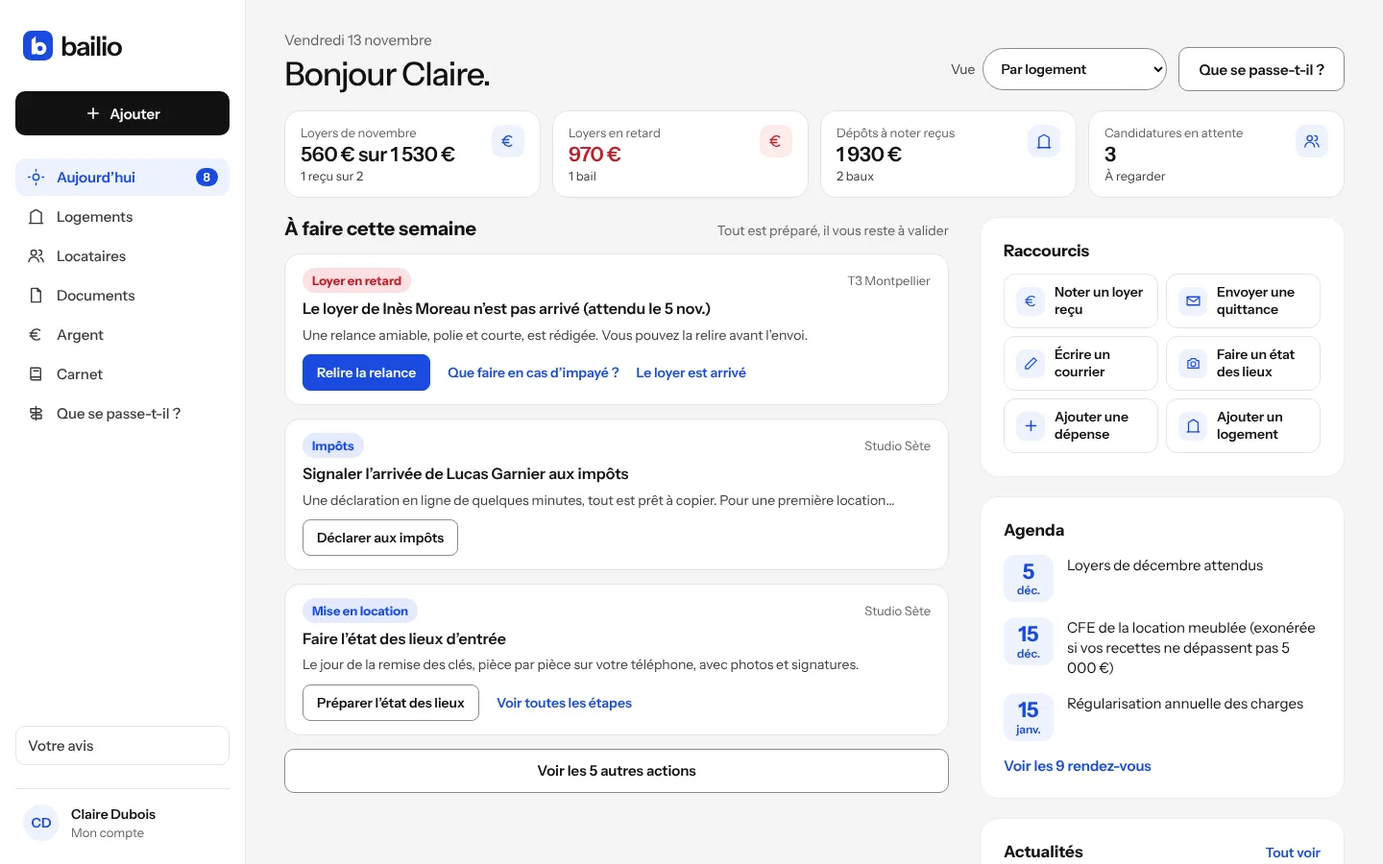
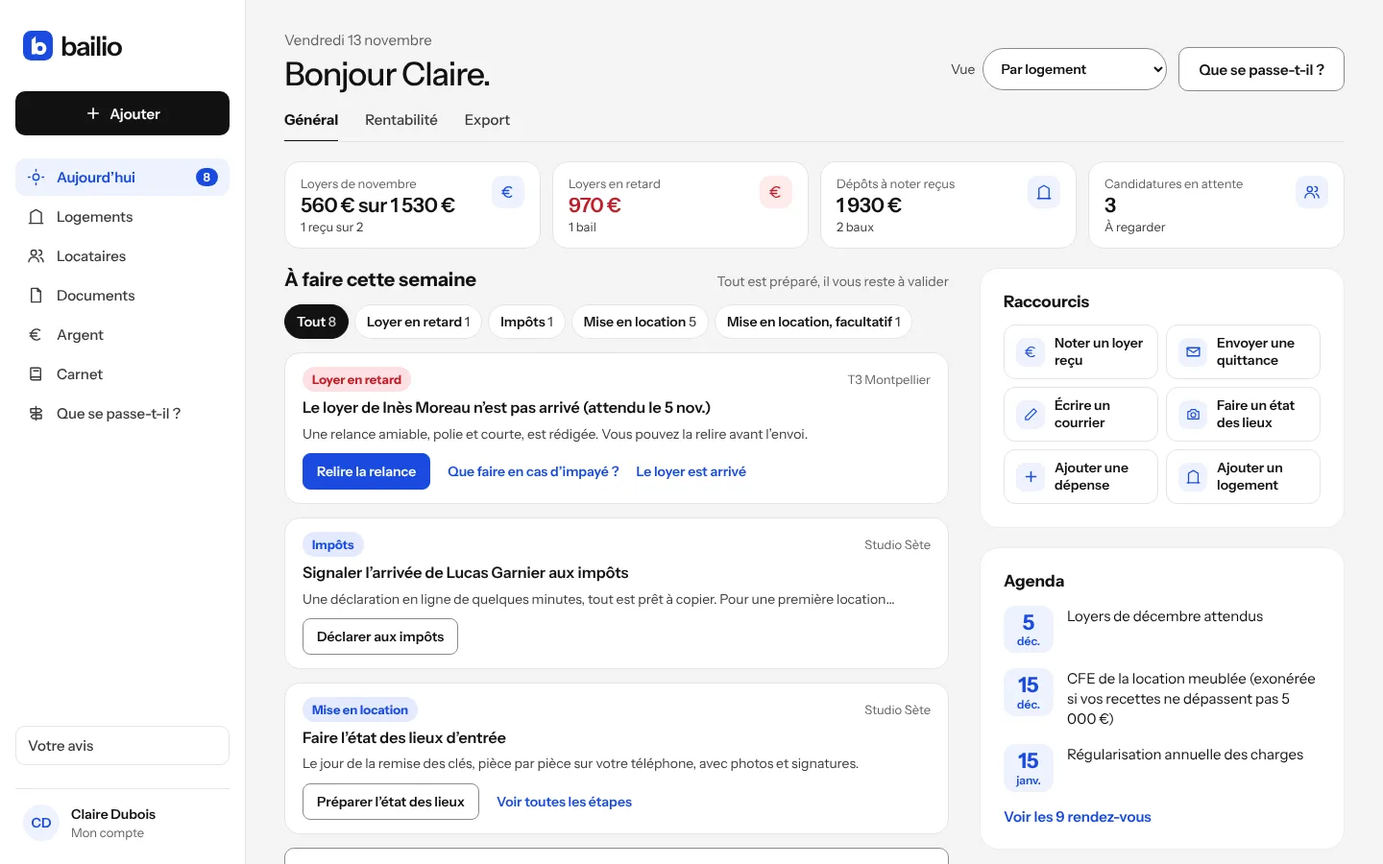
Tableau de bord : onglets Général, Rentabilité et Export ; actions filtrables par catégorie ; captures refaites
Claude-Session: https://claude.ai/code/session_01EKVDPdaB2g9b96r4iNnge6

diff --git a/client/src/pages/espace/Aujourdhui.tsx b/client/src/pages/espace/Aujourdhui.tsx
@@ -1,12 +1,12 @@
-import { useEffect, useState } from 'react'
-import { Link, useNavigate } from 'react-router-dom'
+import { useEffect, useState, type ReactNode } from 'react'
+import { Link, useNavigate, useSearchParams } from 'react-router-dom'
 import { BAI } from '../../constants/bailio-tokens'
 import { AppShell, useSpace } from '../../components/AppShell'
 import { display } from '../../components/ui'
-import { Btn, Card, LoadError, Loader, Pill, TextLink, toneColor, useLoad, useToast, useConfirm } from '../../components/kit'
+import { Btn, Card, LoadError, Loader, Pill, Tabs, TextLink, toneColor, useLoad, useToast, useConfirm } from '../../components/kit'
 import { Camera, Check, Euro, Home, Mail, Pencil, People, Plus, Upload } from '../../components/Icons'
 import { Onboarding } from '../../components/Onboarding'
-import { api } from '../../lib/api'
+import { api, downloadPdf, pdfUrl } from '../../lib/api'
 import { dayTitle, eurosCents, monthName, plural } from '../../lib/format'
 import type { Task, TodayView } from '../../lib/space'
 import { useAuth } from '../../lib/auth'
@@ -31,6 +31,10 @@ function TodayContent() {
   const { data, error, loading, reload } = useLoad(() => api<TodayView>('/today'))
   // Trois actions à la fois : les plus urgentes d'abord, le reste sur demande (pas de longue liste à faire défiler).
   const [allTasks, setAllTasks] = useState(false)
+  const [tag, setTag] = useState<string | null>(null)
+  const [params, setParams] = useSearchParams()
+  const tab = (['general', 'rentabilite', 'export'] as const).find((t) => t === params.get('onglet')) ?? 'general'
+  const setTab = (t: string) => setParams(t === 'general' ? {} : { onglet: t }, { replace: true })
   useEffect(() => {
     if (data) setTaskCount(data.tasks.length)
   }, [data, setTaskCount])
@@ -46,7 +50,9 @@ function TodayContent() {
   const view: ViewMode = user?.viewMode ?? suggestView(data.counts.properties)
   const simple = view === 'SIMPLE'
   const large = view === 'LARGE' || view === 'AGENCY'
-  const visibleTasks = allTasks ? data.tasks : data.tasks.slice(0, 3)
+  const tags = [...new Set(data.tasks.map((t) => t.tag))]
+  const filtered = tag ? data.tasks.filter((t) => t.tag === tag) : data.tasks
+  const visibleTasks = allTasks ? filtered : filtered.slice(0, 3)
   return (
     <>
       <FollowUpBanner />
@@ -71,6 +77,9 @@ function TodayContent() {
 
       {large ? <PortfolioBar agency={view === 'AGENCY'} /> : null}
 
+      <Tabs label="Tableau de bord" value={tab} onChange={setTab} tabs={[{ value: 'general', label: 'Général' }, { value: 'rentabilite', label: 'Rentabilité' }, { value: 'export', label: 'Export' }]} />
+
+      {tab === 'rentabilite' ? <Profitability /> : tab === 'export' ? <Exports /> : (<>
       <Tiles data={data} />
 
       <div className="today-grid">
@@ -79,6 +88,19 @@ function TodayContent() {
             <h2 style={{ margin: 0, fontSize: 20, fontWeight: 700 }}>À faire cette semaine</h2>
             {data.tasks.length ? <span style={{ fontSize: 14, color: BAI.inkSoft }}>Tout est préparé, il vous reste à valider</span> : null}
           </div>
+          {tags.length > 1 ? (
+            <div role="group" aria-label="Filtrer les actions" style={{ display: 'flex', gap: 6, flexWrap: 'wrap' }}>
+              {[null, ...tags].map((g) => {
+                const n = g ? data.tasks.filter((t) => t.tag === g).length : data.tasks.length
+                const on = tag === g
+                return (
+                  <button key={g ?? 'tout'} type="button" aria-pressed={on} onClick={() => { setTag(g); setAllTasks(false) }} style={{ minHeight: 36, padding: '0 12px', borderRadius: 999, border: `1px solid ${on ? BAI.ink : BAI.border}`, background: on ? BAI.ink : BAI.surface, color: on ? BAI.surface : BAI.ink, fontFamily: 'inherit', fontSize: 14, fontWeight: 600, cursor: 'pointer' }}>
+                    {g ?? 'Tout'} <span style={{ fontWeight: 500, opacity: 0.8 }}>{n}</span>
+                  </button>
+                )
+              })}
+            </div>
+          ) : null}
           {/* Plusieurs envois du même genre (relances, assurances, révisions) : ils se font en une fois. */}
           {(['LATE_RENT', 'INSURANCE', 'REVISION'] as const).some((k) => data.tasks.filter((t) => t.type === k).length >= 2) ? (
             <Link to="/espace/actions" style={{ fontSize: 15, fontWeight: 600, color: BAI.owner }}>
@@ -93,9 +115,9 @@ function TodayContent() {
                   <TaskCard task={t} onChange={reload} first={i === 0} />
                 </div>
               ))}
-              {data.tasks.length > visibleTasks.length || allTasks ? (
+              {filtered.length > visibleTasks.length || allTasks ? (
                 <Btn variant="outline" onClick={() => setAllTasks(!allTasks)}>
-                  {allTasks ? 'Voir moins' : (() => { const rest = data.tasks.length - visibleTasks.length; return `Voir ${rest > 1 ? `les ${rest} autres actions` : 'l’autre action'}` })()}
+                  {allTasks ? 'Voir moins' : (() => { const rest = filtered.length - visibleTasks.length; return `Voir ${rest > 1 ? `les ${rest} autres actions` : 'l’autre action'}` })()}
                 </Btn>
               ) : null}
             </>
@@ -125,11 +147,83 @@ function TodayContent() {
           </Card>
         </aside>
       </div>
+      </>)}
     </>
   )
 }
 
 const fmtMoney = (c: number) => eurosCents(c).replace(',00 €', ' €')
+
+/** Onglet « Rentabilité » : l'essentiel du mois et chaque logement en une ligne (même calcul que /espace/patrimoine). */
+interface PortfolioLite {
+  totals: { properties: number; rented: number; monthlyRentCents: number; monthlyLoanCents: number; monthlyExpensesCents: number; monthlyNetCents: number; grossYield: number | null }
+  rows: Array<{ id: string; name: string; rented: boolean; rentCents: number; chargesCents: number; netCents: number }>
+}
+
+function Profitability() {
+  const { data, error, reload } = useLoad(() => api<PortfolioLite>('/portfolio'))
+  if (error) return <LoadError message={error} retry={reload} />
+  if (!data) return <Loader />
+  const t = data.totals
+  const tiles: Array<[string, string, string?]> = [
+    ['Loyers et charges attendus', fmtMoney(t.monthlyRentCents), 'par mois'],
+    ['Crédits et dépenses', fmtMoney(t.monthlyLoanCents + t.monthlyExpensesCents), 'par mois, en moyenne'],
+    [t.monthlyNetCents >= 0 ? 'Il vous reste' : 'De votre poche', fmtMoney(Math.abs(t.monthlyNetCents)), 'par mois, avant impôt'],
+    ['Rendement brut', t.grossYield !== null ? `${t.grossYield.toLocaleString('fr-FR')} %` : '—', t.grossYield !== null ? 'par an, logements loués' : 'prix d’achat à renseigner'],
+  ]
+  return (
+    <>
+      <div className="today-tiles">
+        {tiles.map(([label, value, sub]) => (
+          <div key={label} style={{ background: BAI.surface, border: `1px solid ${BAI.border}`, borderRadius: 16, padding: '14px 16px', display: 'flex', flexDirection: 'column', gap: 2 }}>
+            <span style={{ fontSize: 13, color: BAI.inkSoft }}>{label}</span>
+            <span style={{ fontSize: 'clamp(18px, 2vw, 21px)', fontWeight: 600, letterSpacing: '-0.02em' }}>{value}</span>
+            {sub ? <span style={{ fontSize: 13, color: BAI.inkMid }}>{sub}</span> : null}
+          </div>
+        ))}
+      </div>
+      <Card title="Par logement" action={<TextLink to="/espace/patrimoine" style={{ fontSize: 14 }}>Tableau de bord complet</TextLink>}>
+        {data.rows.map((r) => (
+          <Link key={r.id} to={`/espace/logements/${r.id}`} className="tap" style={{ textDecoration: 'none', color: BAI.ink, display: 'flex', justifyContent: 'space-between', gap: 12, fontSize: 15, borderTop: `1px solid ${BAI.dividerSoft}`, paddingTop: 10 }}>
+            <span style={{ minWidth: 0, overflow: 'hidden', textOverflow: 'ellipsis' }}>{r.name}</span>
+            <span style={{ whiteSpace: 'nowrap', fontWeight: 600, color: !r.rented ? BAI.inkSoft : r.netCents >= 0 ? BAI.ink : BAI.error }}>{r.rented ? `${fmtMoney(r.netCents)} / mois` : 'Libre'}</span>
+          </Link>
+        ))}
+      </Card>
+    </>
+  )
+}
+
+/** Onglet « Export » : ce qu'on télécharge ou prépare pour le comptable et les impôts. */
+function Exports() {
+  const toast = useToast()
+  const year = new Date().getFullYear()
+  const csv = async (y: number) => {
+    try {
+      downloadPdf(await pdfUrl(`/money/export?year=${y}`), `bailio-${y}.csv`)
+    } catch (e) {
+      toast.error(e)
+    }
+  }
+  const items: Array<{ title: string; text: string; action: ReactNode }> = [
+    { title: `Export pour le comptable ${year}`, text: 'Loyers, charges et dépenses, une ligne par opération (CSV).', action: <Btn size="sm" variant="outline" onClick={() => void csv(year)}>Télécharger</Btn> },
+    { title: `Export ${year - 1}`, text: 'L’année dernière, au même format.', action: <Btn size="sm" variant="outline" onClick={() => void csv(year - 1)}>Télécharger</Btn> },
+    { title: 'Bilan par logement', text: 'Loyers, dépenses, résultat et rendement.', action: <Btn size="sm" variant="outline" to="/espace/argent/bilan">Ouvrir</Btn> },
+    { title: 'Déclaration des revenus', text: 'Cases à recopier et formulaires remplis.', action: <Btn size="sm" variant="outline" to="/espace/argent/declaration">Ouvrir</Btn> },
+    { title: 'Quittances et courriers', text: 'Rangés avec chaque bail, à télécharger un par un.', action: <Btn size="sm" variant="outline" to="/espace/documents">Ouvrir</Btn> },
+  ]
+  return (
+    <div className="grid-2" style={{ display: 'grid', gap: 12 }}>
+      {items.map((i) => (
+        <div key={i.title} style={{ background: BAI.surface, border: `1px solid ${BAI.border}`, borderRadius: 16, padding: '16px 18px', display: 'flex', flexDirection: 'column', gap: 6, alignItems: 'flex-start' }}>
+          <strong style={{ fontSize: 16 }}>{i.title}</strong>
+          <span style={{ fontSize: 14, color: BAI.inkMid }}>{i.text}</span>
+          <span style={{ paddingTop: 4 }}>{i.action}</span>
+        </div>
+      ))}
+    </div>
+  )
+}
 
 /** Chiffres du mois : une tuile par chiffre, chacune mène à la page qui va bien. */
 /** Vue « Patrimoine » ou « Gestion pour d'autres » : le patrimoine, les actions groupées et les exports d'abord. */

diff --git a/client/src/content/fonctionnalites.ts b/client/src/content/fonctionnalites.ts
@@ -236,7 +236,7 @@ export const FEATURES: Feature[] = [
 
 /** Vitrine de /fonctionnalites : quatre écrans, une zone mise en avant chacun. */
 export const SHOWCASE: Array<{ id: string; tab: string; img: string; alt: string; spot: Spot }> = [
-  { id: 'jour', tab: 'Aujourd’hui', img: 'today', alt: 'Écran « Aujourd’hui » de Bailio : un loyer en retard avec la relance prête, une fin de bail, l’état des lieux à faire et les prochaines échéances.', spot: { x: 20.6, y: 29.3, w: 48.1, h: 17.5, label: 'Un loyer en retard : la relance est déjà rédigée' } },
+  { id: 'jour', tab: 'Aujourd’hui', img: 'today', alt: 'Écran « Aujourd’hui » de Bailio : un loyer en retard avec la relance prête, une fin de bail, l’état des lieux à faire et les prochaines échéances.', spot: { x: 20.6, y: 40.8, w: 48.1, h: 17.5, label: 'Un loyer en retard : la relance est déjà rédigée' } },
   { id: 'loyers', tab: 'Loyers', img: 'quittances', alt: 'Partie « Loyers et quittances » d’un bail : loyer du mois payé, envoi automatique des quittances et loyers des mois passés.', spot: { x: 22.3, y: 37.4, w: 45.1, h: 8.6, label: 'La quittance part dès que le loyer est noté reçu' } },
   { id: 'relances', tab: 'Relances', img: 'relances', alt: 'Bail avec un loyer en retard de 3 jours et les relances automatiques activées.', spot: { x: 22.3, y: 60, w: 45.1, h: 10.8, label: 'Relance à J+3, second rappel à J+8, mise en demeure à J+15' } },
   { id: 'bord', tab: 'Tableau de bord', img: 'patrimoine', alt: 'Tableau de bord de Bailio : loyers attendus chaque mois, ce qu’il reste, logements à surveiller.', spot: { x: 20.6, y: 36.5, w: 76.7, h: 16.6, label: 'Le loyer en retard et le bail à renouveler, en tête' } },

diff --git a/client/src/pages/Home.tsx b/client/src/pages/Home.tsx
@@ -138,7 +138,7 @@ function Check() {
 
 /** Visite animée du produit : vraies captures de l'application sur ordinateur (compte d'exemple), qui défilent seules. */
 const TOUR: TourStep[] = [
-  { id: 'jour', tab: 'Aujourd’hui', img: 'today', alt: 'Écran « Bonjour Claire » : loyers du mois, un loyer en retard avec la relance prête, les raccourcis et l’agenda', spot: { x: 20.6, y: 29.3, w: 48.1, h: 17.5, label: 'Chaque matin, ce qui compte est en haut' } },
+  { id: 'jour', tab: 'Aujourd’hui', img: 'today', alt: 'Écran « Bonjour Claire » : loyers du mois, un loyer en retard avec la relance prête, les raccourcis et l’agenda', spot: { x: 20.6, y: 40.8, w: 48.1, h: 17.5, label: 'Chaque matin, ce qui compte est en haut' } },
   { id: 'logements', tab: 'Logements', img: 'logements', alt: 'Liste des logements : loués, libres, loyer en retard, avec le loyer de chacun', spot: { x: 20.6, y: 18, w: 76.7, h: 12, label: 'Vos logements, leur état d’un coup d’œil' } },
   { id: 'bail', tab: 'Bail', img: 'bail', alt: 'Page d’un bail signé : locataire, adresse, dates, loyers reçus avec leurs quittances', spot: { x: 20.6, y: 6.5, w: 40, h: 9, label: 'Le contrat type officiel, signé en ligne' } },
   { id: 'loyers', tab: 'Loyers', img: 'quittances', alt: 'Bail avec la quittance par email activée dès que le loyer est noté reçu', spot: { x: 22.3, y: 37.4, w: 45.1, h: 8.6, label: 'Le loyer arrive, la quittance part' } },

diff --git a/marketing/videos/demo/demo.html b/marketing/videos/demo/demo.html
@@ -24,7 +24,7 @@ const LOGO = (size) => `<svg width="${size}" height="${size}" viewBox="0 0 32 32
 const SCREEN = 7
 // x, y, w, h : zone utile en % de la capture (1440 × 900)
 const STEPS = [
-  { img: 'today', url: 'bailio.fr/espace', cap: 'Chaque matin, ce qui est à faire, déjà préparé.', spot: { x: 20.6, y: 29.3, w: 48.1, h: 17.5 } },
+  { img: 'today', url: 'bailio.fr/espace', cap: 'Chaque matin, ce qui est à faire, déjà préparé.', spot: { x: 20.6, y: 40.8, w: 48.1, h: 17.5 } },
   { img: 'tunnel', url: 'bailio.fr/commencer', cap: 'Votre bail en quelques questions, sur le contrat type officiel.', spot: { x: 37.9, y: 28.3, w: 50, h: 25.6 } },
   { img: 'bail', url: 'bailio.fr/espace/baux', cap: 'Vérifié avant la signature, signé en ligne.', spot: { x: 20.6, y: 6.5, w: 40, h: 9 } },
   { img: 'quittances', url: 'bailio.fr/espace/baux', cap: 'Le loyer arrive : la quittance part toute seule.', spot: { x: 22.3, y: 37.4, w: 45.1, h: 8.6 } },

diff --git a/CLAUDE.md b/CLAUDE.md
@@ -32,7 +32,7 @@
 - Toute couleur vient de `BAI` (`client/src/constants/bailio-tokens.ts`). Aucune couleur hexadécimale dans les composants.
 - Titres et texte : Instrument Sans (`@fontsource-variable/instrument-sans`, servie par le site), titres en 500 (`display()`, `components/ui.tsx`), jamais 700 ni 800 ; la seconde moitié d'un titre en gris avec `<em>` (une phrase à elle seule, sans italique), une fois par écran. Pas d'étiquette en capitales au-dessus des titres, pas de numérotation 01/02 hors vraie suite, phrases de moins de 15 mots dans les zones clés.
 - Palette « Feuille et stylo » (`white-link-blue` de la skill taste) : feuille blanche `BAI.surface`, fond de l'espace `BAI.bg` gris très clair, encre `BAI.ink`, aplat sombre `BAI.night`, **un seul bleu « stylo » (`BAI.owner` = `BAI.cta`) pour les liens et le bouton de l'action principale, texte blanc, seul bouton plein bleu de l'écran** ; autres boutons en contour (encre, bord `borderStrong`) ou noirs ; `BAI.accent` bleu clair seulement sur fond sombre ; payé `BAI.green`. Pas de violet, pas de dégradé, pas d'ombre lourde ; le rouge ne sert qu'aux erreurs.
-- Espace du propriétaire (`components/AppShell.tsx`) : menu latéral clair (fond `BAI.surface`, trait `BAI.border`, une icône par entrée, entrée en cours sur `BAI.ownerLight` en bleu, bouton « Ajouter » noir) ; tuiles d'« Aujourd'hui » avec pastille à icône à droite (bleue, verte, rouge selon l'état) ; actions en cartes compactes (une ligne d'explication, `.task-text`, dépliée au survol ou au clavier) ; raccourcis en puces sur une ligne ; titres de page en 26 à 34 px. L'aplat sombre ne sert plus au menu. Écarts avec Qalimo à traiter plus tard : `docs/strategie/qalimo-ecarts-2026-11-13.md`.
+- Espace du propriétaire (`components/AppShell.tsx`) : menu latéral clair (fond `BAI.surface`, trait `BAI.border`, une icône par entrée, entrée en cours sur `BAI.ownerLight` en bleu, bouton « Ajouter » noir) ; tuiles d'« Aujourd'hui » avec pastille à icône à droite (bleue, verte, rouge selon l'état) ; actions en cartes compactes (une ligne d'explication, `.task-text`, dépliée au survol ou au clavier) ; raccourcis en puces sur une ligne ; titres de page en 26 à 34 px ; onglets « Général », « Rentabilité » (`Profitability`, `GET /portfolio`) et « Export » (`Exports` : CSV de l'année et de l'an dernier, bilan, déclaration, documents) gardés dans `?onglet=` ; actions filtrables par étiquette (« Tout 8 », « Loyer en retard 1 »…). L'aplat sombre ne sert plus au menu. Écarts avec Qalimo à traiter plus tard : `docs/strategie/qalimo-ecarts-2026-11-13.md`.
 - Module « page de bail » (coin replié) : `.fold`, `.fold--lg`, `.fold--ear` dans `styles.css` ; photo dans un module arrondi, bloc de couleur posé en bas, jamais en haut.
 - Une seule action principale par écran (variante `primary` des boutons, bleu). Boutons rayon 10 px (`BAI.radiusBtn`), étiquettes en pilule. Champs de 60 px de haut, rayon 12 px ; cartes rayon 20 px.
 - Logo (`components/Logo.tsx`, `docs/design/direction-artistique.md`) : tuile bleue arrondie portant un « b » blanc dont la hampe est taillée en pente de toit, puis « bailio » en Instrument Sans 600. La tuile reste bleue partout ; `onDark` ne change que le nom. Favicon et icône de téléphone (`client/public/`) à garder identiques.
@@ -69,7 +69,7 @@
 - Pages solutions (`content/solutions.ts` : `SOLUTIONS`, `solutionPath` ; `pages/Solutions.tsx` : `SolutionPage`, `APropos`, `SolutionLinks` ; `/bail/:slug` : location vide, meublée, bail étudiant, bail mobilité, colocation, garage ; `/gestion-locative/:slug` : particulier, SCI, LMNP ; `/a-propos`, lien du pied de page, listes « Par type de bail » et « Par profil » sur `/fonctionnalites` et `/tarifs`) : plan en blocs (l'essentiel, durée et dépôt, frise date par date, clauses interdites, annexes, fin du bail, fiscalité, FAQ en `<details>`, sources vérifiées le 9 novembre 2026 sur service-public.gouv.fr) ; bouton bleu vers `/commencer` (garage : `/inscription` avec `ADD_PARKING_PATH`), prix repris de `config.ts`, fondateur : prénom et nom tirés de `FOUNDER_LINKEDIN`, rien d'autre. Seulement ce que Bailio fait (le tunnel public ne propose que vide ou meublé : étudiant, mobilité et colocation se choisissent dans « Type de bail »). Plan du site, `llms.txt`, page HTML avec FAQ structurée (`solutionHtml`) et mesure d'audience (`/a-propos`, motif `bail|gestion-locative`) les reprennent seuls. Test : `e2e/tests/50-solutions.test.mjs`.
 - Conversion : encart « Bailio le fait pour vous » (`components/SignupCta.tsx`, bouton bleu, prix repris de `config.ts`) sous chaque outil et modèle gratuit ; section « Outils gratuits, sans compte » de l'accueil (`FreeTools`, liste `SIMULATEURS`).
 - Démo « Essayez Bailio sans compte » (`pages/Demo.tsx`, `/demo`, lien « Essayer la démo » du héros de l'accueil et du pied de page) : espace d'exemple manipulable, quatre onglets gardés dans `?onglet=` (Aujourd'hui : 3 tâches avec résultat sur place, Loyers : tableau et relances J+3/J+8/J+15, Créer un bail : 3 questions puis règles appliquées, Impôts : micro-foncier case 4BE ou réel). Données fictives (Camille, Lyon, Nantes, noms inventés) et calculs dans `content/demo.ts`, tout dans le navigateur : aucune requête à l'API, rien d'enregistré. Boutons non bleus pleins, encart `SignupCta` en bas. Mesure d'audience, plan du site et `llms.txt` la reprennent. Test : `e2e/tests/46-demo.test.mjs`.
-- Accueil (`pages/Home.tsx`, fait pour être survolé) : haut de page centré (`.hero3` : pastille, titre « La gestion locative des propriétaires, sans agence. », une ligne, bouton bleu et vidéo en contour, ligne de faits), puis le vrai produit en grand (`components/HeroProduct.tsx` : capture d'« Aujourd'hui » dans une fenêtre de navigateur et fil de ce que Bailio vient de faire, exemple fictif dit comme tel, immobile si l'appareil demande moins d'animations), démarches par an, visite, six automatismes, la loi appliquée au bail, fonctionnalités, offres, prix selon le nombre de logements comparé à une agence (`PriceCalc`, `MONTHLY_PRICE_CENTS` et `YEARLY_PRICE_CENTS` de `config.ts`), comparaison, outils gratuits, questions. « Bailio en action » (`Tour`), visite animée (`components/ProductTour.tsx`, aussi la vitrine de `/fonctionnalites`) : vraies captures sur ordinateur d'un compte d'exemple dans une fenêtre de navigateur (`components/AppWindow.tsx`, images de `public/fonctionnalites/`, à refaire quand les écrans changent), qui défilent seules (6 s), un curseur va jusqu'à la zone utile et clique, bulle d'explication, barre de progression par étape, pause au survol et au clavier, légère inclinaison 3D qui se redresse en descendant (souris seulement), rien ne bouge si l'appareil demande moins d'animations ; en-tête collant dont le bouton « Créer mon bail » n'apparaît qu'une fois celui du haut de page sorti de l'écran (un seul bleu plein visible ; « Se connecter » masqué sous 400 px) ; nombres qui défilent (`components/CountUp.tsx`, valeur finale lue par les lecteurs d'écran), « démarches par an » (`Yearly`), avis de propriétaires (`content/avis.ts`) : **uniquement de vrais avis, mot pour mot, avec l'accord écrit de leur auteur** ; bloc caché tant que la liste est vide.
+- Accueil (`pages/Home.tsx`, fait pour être survolé) : haut de page centré (`.hero3` : pastille, titre « La gestion locative des propriétaires, sans agence. », une ligne, bouton bleu et vidéo en contour, ligne de faits), puis le vrai produit en grand (`components/HeroProduct.tsx` : capture d'« Aujourd'hui » dans une fenêtre de navigateur et fil de ce que Bailio vient de faire, exemple fictif dit comme tel, immobile si l'appareil demande moins d'animations), avant/après d'une année (`Yearly` : une case par démarche, à la main contre décisions à valider, selon 1, 2, 3 ou 5 logements), visite en 9 onglets (`TOUR`), six automatismes avec chacun un mini-écran animé (`AutoMini`, coupé si l'appareil demande moins d'animations), la loi appliquée au bail, fonctionnalités filtrables par moment (`ALL_FEATURES`, `FEATURE_GROUPS` : Encaisser, Louer, Protéger, Piloter ; « 0 option payante »), offres, prix selon le nombre de logements au mois ou à l'année, comparé à une agence, avec les garanties (`PriceCalc`, `MONTHLY_PRICE_CENTS` et `YEARLY_PRICE_CENTS` de `config.ts`, `GUARANTEES`), comparaison, outils gratuits, questions. « Bailio en action » (`Tour`), visite animée (`components/ProductTour.tsx`, aussi la vitrine de `/fonctionnalites`) : vraies captures sur ordinateur d'un compte d'exemple dans une fenêtre de navigateur (`components/AppWindow.tsx`, images de `public/fonctionnalites/`, à refaire quand les écrans changent), qui défilent seules (6 s), un curseur va jusqu'à la zone utile et clique, bulle d'explication, barre de progression par étape, pause au survol et au clavier, légère inclinaison 3D qui se redresse en descendant (souris seulement), rien ne bouge si l'appareil demande moins d'animations ; en-tête collant dont le bouton « Créer mon bail » n'apparaît qu'une fois celui du haut de page sorti de l'écran (un seul bleu plein visible ; « Se connecter » masqué sous 400 px) ; nombres qui défilent (`components/CountUp.tsx`, valeur finale lue par les lecteurs d'écran), « démarches par an » (`Yearly`), avis de propriétaires (`content/avis.ts`) : **uniquement de vrais avis, mot pour mot, avec l'accord écrit de leur auteur** ; bloc caché tant que la liste est vide.
 - vidéo de présentation (`client/public/video/bailio-presentation.webm` (VP9, lu par tous les navigateurs, dont Chromium des tests) et `.mp4` (H.264), et sa vignette, 1 min 15, 1280 × 720, environ 4 Mo ; scènes dans `marketing/videos/demo/demo.html`, rendu par `render.cjs`, musique seule, sous-titres incrustés, aucune voix) : vraies captures de `public/fonctionnalites/`, curseur et zoom ; bouton « Voir la vidéo · 1 min » du héros de l'accueil (`components/VideoDialog.tsx` : fenêtre par-dessus la page, servie par le site, sans service tiers ni traceur, Échap ferme). À refaire quand les captures changent. Test : `e2e/tests/52-video.test.mjs`.
 - Agents d'IA et moteurs : `robots.txt` (liens privés exclus), `sitemap.xml` et `llms.txt` générés par `vite.config.ts` (prix repris de `config.ts`) ; `<noscript>` descriptif dans `index.html`. Nouvelle page publique : l'ajouter à `PUBLIC_PAGES` et à `llms.txt`.
 - Référencement (`staticPages`, `vite.config.ts`) : à la construction, chaque page publique de `PUBLIC_PAGES` reçoit son fichier HTML (`dist/guides/<slug>.html`, `dist/conditions.html`…) avec son titre, sa description, son adresse canonique, son partage, son fil d'Ariane et, pour un guide, ses données `Article` (texte complet, sources, dates) et le texte de l'article dans `<noscript>` ; Caddy les sert avant l'application (`try_files {path}.html {path} /index.html`). Sans ce fichier, la page reçoit l'accueil comme adresse canonique et Google l'ignore. Nouvelle page publique hors guide : titre et description dans `PAGE_META`. `lastmod` des guides dans `sitemap.xml`. Après chaque mise à jour, les pages du plan du site sont signalées par IndexNow (`update.sh`, clé dans `client/public/<clé>.txt`).
